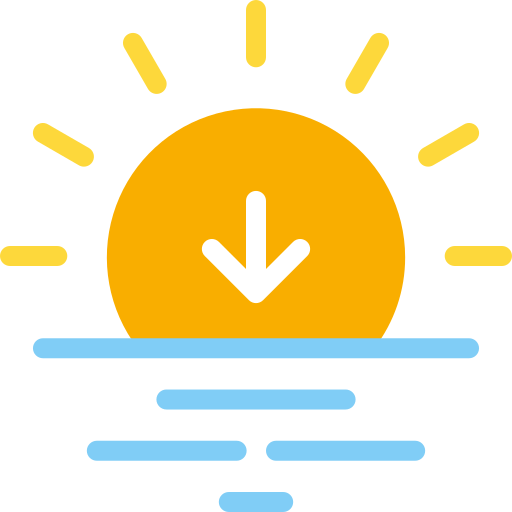
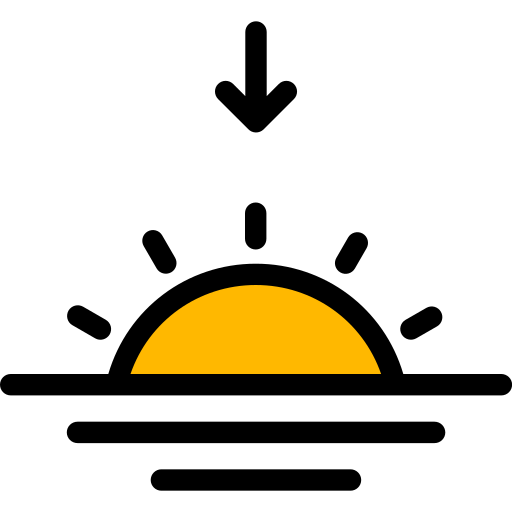
Chart added with sunrise and sunset

diff --git a/src/Dashboard.jsx b/src/Dashboard.jsx
@@ -1,10 +1,18 @@
 import React, { useState, useEffect } from "react";
+import Sunrise from './Sunrise';
 import "./Dashboard.css";
+import Chart from "./Chart";
+
 
 
 function Dashboard({city}) {
   const [weatherData, setWeatherData] = useState([]);
   const [dateTime, setDateTime] = useState(new Date());
+  const [sunrise,setSunrise]=useState(null);
+  const [sunset,setSunset]=useState(null);
+  const [x,setX]=useState(null);
+  const [y1,setY1]=useState(null);
+  const [y2,setY2]=useState(null);
 
   const apiKey = import.meta.env.VITE_WEATHER_API_KEY;
 
@@ -30,7 +38,7 @@ function Dashboard({city}) {
       `https://api.openweathermap.org/data/2.5/forecast?lat=${coords.lat}&lon=${coords.lon}&appid=${apiKey}&units=metric`
     );
     const data = await response.json();
-
+    chartValues(data);
     // Get first forecast for each day
     const dailyData = [];
     const usedDates = new Set();
@@ -41,13 +49,23 @@ function Dashboard({city}) {
         usedDates.add(date);
       }
     });
-    console.log(data);
-
+    const date = new Date(data.city.sunrise* 1000);
+    setSunrise(date.toLocaleTimeString());
+    const d=new Date(data.city.sunset* 1000);
+    setSunset(d.toLocaleTimeString());
     setWeatherData(dailyData.slice(1, 5)); // 4 days
   };
-//   useEffect(() => {
-//   console.log("Updated chartData:", chartData);
-// }, [chartData]);
+  //chart 
+  function chartValues(data){
+    const y1=data.list.map((item)=>item.main.temp).splice(0,12);
+    const x=data.list.map((item)=>(new Date(item.dt_txt)).toLocaleTimeString()).splice(0,12);
+    const y2=data.list.map((item)=>item.main.feels_like).splice(0,12);
+    console.log(y2);
+    setX(x);
+    setY1(y1);
+    setY2(y2);
+  }
+
 
 
   useEffect(() => {
@@ -106,7 +124,8 @@ function Dashboard({city}) {
           })
         )}
       </div>
-      
+      <Sunrise t1={sunrise} t2={sunset}/>
+      <Chart x={x} y1={y1} y2={y2}/>
     </div>
   );
 }

diff --git a/src/Chart.jsx b/src/Chart.jsx
@@ -1,0 +1,59 @@
+import { Line } from "react-chartjs-2";
+import {
+  Chart as ChartJS,
+  CategoryScale,
+  LinearScale,
+  PointElement,
+  LineElement,
+  Title,
+  Tooltip,
+  Legend,
+} from "chart.js";
+ChartJS.register(
+  CategoryScale,
+  LinearScale,
+  PointElement,
+  LineElement,
+  Title,
+  Tooltip,
+  Legend
+);
+function Chart({x,y1,y2}){
+    
+  const data = {
+    labels: x, // X-axis labels
+    datasets: [
+      {
+        label: "Actual Temperature", // Name shown in legend & tooltip
+        data:y1, // Y-axis values
+        borderColor: "blue",   // Line color
+        backgroundColor: "white", // Fill color under line
+        tension: 0.4,          // Smooth curves (0 = straight lines)          
+      },
+      {
+        label: "Feels Like",
+        data:y2, 
+        borderColor: "red",  
+        backgroundColor: "white", 
+        tension: 0.4,               
+      },
+    ],
+  };
+
+  // Chart options
+  const options = {
+    responsive: true,
+    plugins: {
+      legend: {
+        position: "top", // Legend position
+      },
+    },
+    scales: {
+    y: {
+      beginAtZero: true, // ✅ ensures Y-axis starts from 0
+    },
+  },
+  };
+  return <Line data={data} options={options} />;
+};
+export default Chart;

diff --git a/src/index.css b/src/index.css
@@ -6,9 +6,12 @@ html, body, #root {
   box-sizing: border-box;
   background-image: url("/bgimage.png");
   background-size: cover;
+  background-repeat: no-repeat;
   background-position: center;
+  background-attachment: fixed;
 
 }
+
 
 a {
   font-weight: 500;
@@ -40,7 +43,7 @@ button:hover {
   display: flex;
   justify-content: space-between;
   align-items: center;
-  padding:2%;
+  padding:1%;
   font-size: 18px;
   border-radius: 10px;
   background-color:white;
@@ -50,3 +53,37 @@ button:hover {
   margin-right: auto;
 }
 
+.Weather{
+  height: 100%;
+  padding: 5px;
+}
+.Home{
+  height: 100%;
+  padding: 5px;
+  display: flex;
+  flex-direction: column;
+  align-items: center;
+
+}
+.section2{
+  margin-top:-15px;
+  margin-left: -15px;
+  width: 100%;
+  height: 400px;
+  font-size: 24px;
+  display: flex;
+  flex-direction: row;
+}
+.sunrise,.sunset{
+  height: 100%;
+  width: 50%;
+  display: flex;
+  flex-direction: column;
+  justify-content: center;
+  align-items: center;
+  
+}
+.sun{
+  width: 150px;
+  height: 150px;
+}

diff --git a/src/App.jsx b/src/App.jsx
@@ -3,15 +3,22 @@ import Weather from './Weather';
 import Dashboard from './Dashboard';
 
 
+
 function App() {
   const [city, setCity] = useState('Delhi');
   const [showDashboard,setShowDashboard]=useState(false);
   return <>
   <div className='navbar'>
-    <div>WeatherMan</div>
-    <div  onClick={()=>setShowDashboard((prev)=>(!prev))}>{!showDashboard?"Dashboard":"Home"}</div>
+    <div className='Weather' >WeatherMan</div>
+    <div className='Home'  onClick={()=>setShowDashboard((prev)=>(!prev))}>
+      <div>{!showDashboard?<img  src="Dashboard.png" alt="" />:<img src="home.png" alt="" />}</div>
+      <div>{!showDashboard?"Dashboard":"Home"}</div>
+    </div>
   </div>
-  {showDashboard?<Dashboard city={city}/>:<Weather city={city} setCity={setCity} />}</>;
+  {showDashboard?(<><Dashboard city={city}/></>):<Weather city={city} setCity={setCity} />}
+  
+  </>;
+  
 }
 
 export default App;

diff --git a/src/Sunrise.jsx b/src/Sunrise.jsx
@@ -1,0 +1,19 @@
+function Sunrise({t1,t2}){
+    return(
+        <>
+    <div className='section2'>
+      <div className='sunrise'>
+          <h2>SUNRISE</h2>
+          <img  className="sun" src="sunriseicon.png"/>
+          <p>Time :: {t1}</p>
+      </div>
+      <div className='sunset'>
+           <h2>SUNSET</h2>
+           <img className="sun" src="sunset.png"/>
+           <p>Time :: {t2}</p>
+      </div>
+    </div>
+        </>
+    )
+}
+export default Sunrise;

diff --git a/src/Weather.jsx b/src/Weather.jsx
@@ -72,7 +72,7 @@ function Weather({city,setCity}) {
           onChange={(e) => setCity(e.target.value)}
           onKeyDown={(e) => e.key === 'Enter' && fetchWeather(city)}
         />
-        <button className="search-button" onClick={() => fetchWeather(city)}>🔍</button>
+        <button className="search-button" onClick={() => fetchWeather(city)}><img src='search.png'/></button>
       </div>
 
       {weatherData && (

diff --git a/src/Dashboard.css b/src/Dashboard.css
@@ -50,6 +50,7 @@
 @media only screen and (max-width: 600px) {
     .forecast-grid{
         flex-direction: row;
+        justify-content: center;
         width: 90%;
     }
     .weather-card{
